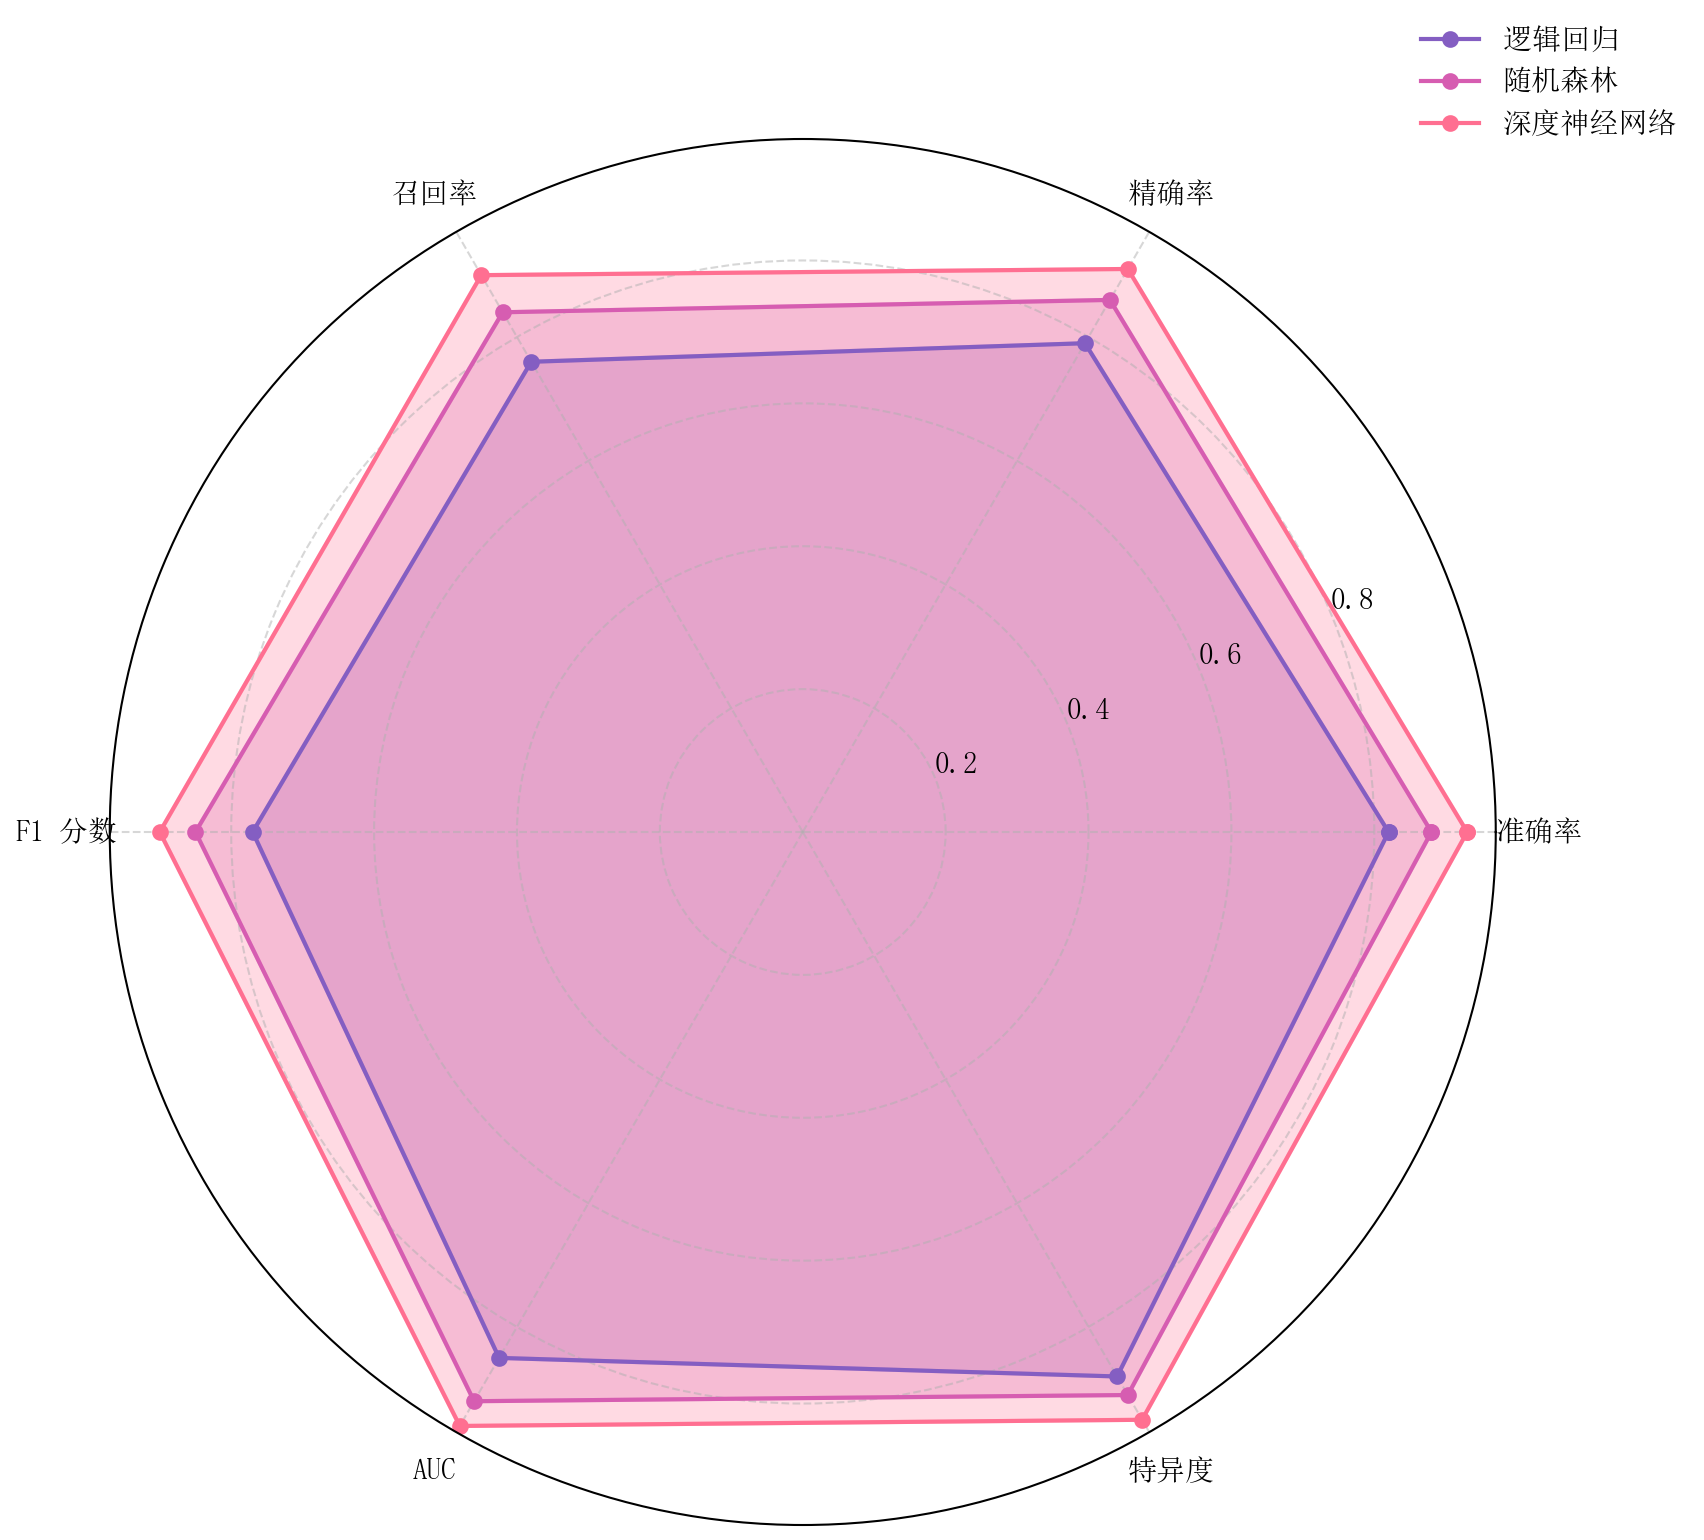
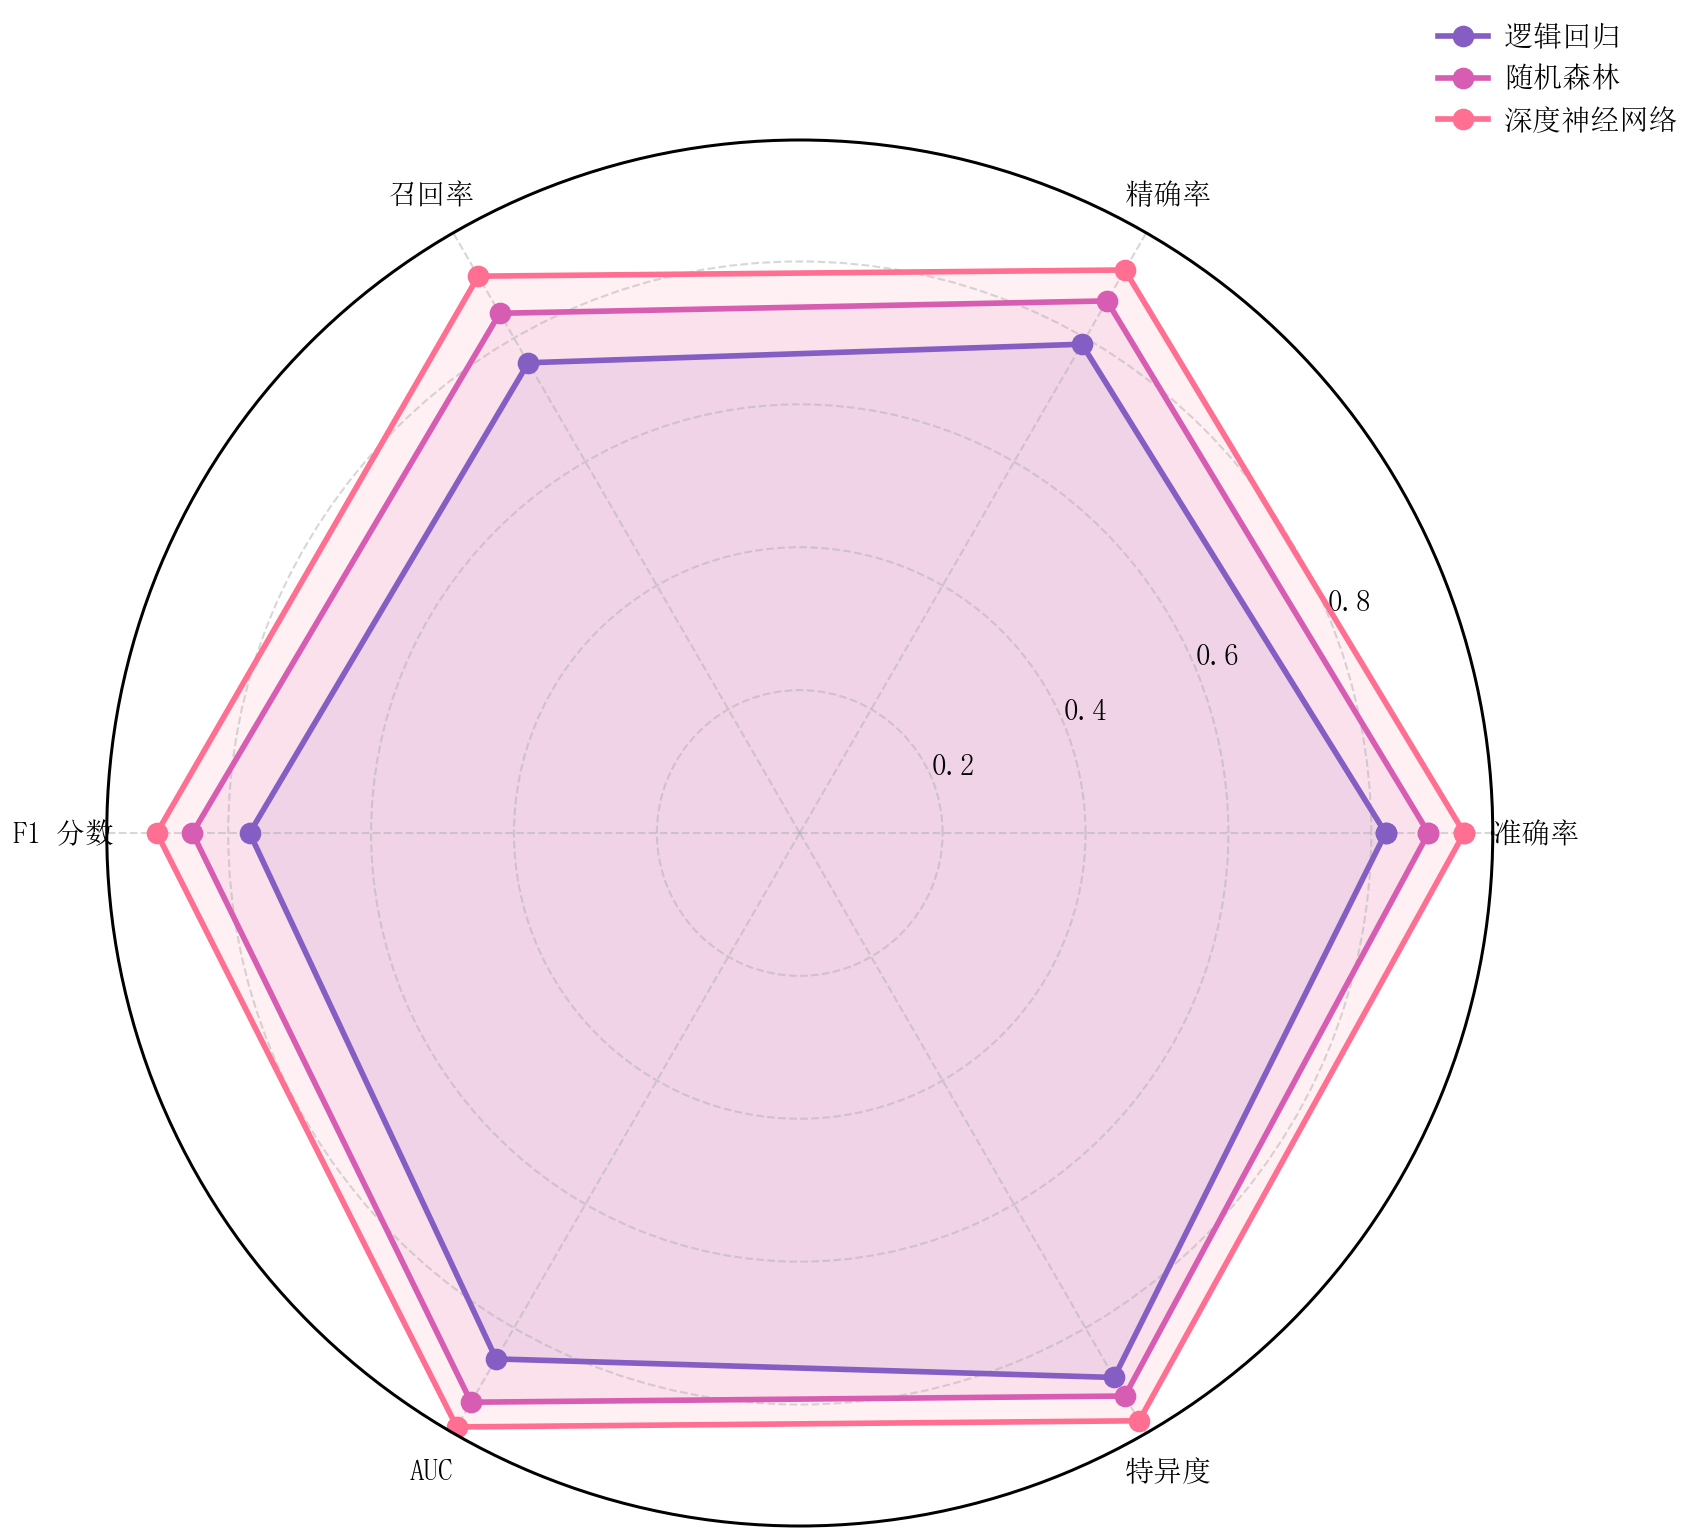
feat(style): raise publication visual baseline

diff --git a/sciplot/_plots/flow.py b/sciplot/_plots/flow.py
@@ -458,6 +458,10 @@ def plot_alluvial(
         raise ValueError("stages 至少需要两个阶段")
     if any(len(s) == 0 for s in stage_list):
         raise ValueError("每个阶段至少需要一个类别")
+    if not 0.0 <= flow_alpha <= 1.0:
+        raise ValueError(f"flow_alpha 必须在 [0, 1] 范围内，实际值: {flow_alpha!r}")
+    if not 0.0 < node_width < 0.5:
+        raise ValueError(f"node_width 必须在 (0, 0.5) 范围内，实际值: {node_width!r}")
 
     # flows 容错：允许扁平三元组列表（两阶段时的便捷写法）
     if flows and isinstance(flows[0], tuple) and len(flows[0]) == 3:
@@ -480,6 +484,9 @@ def plot_alluvial(
             if not np.isfinite(val) or val < 0:
                 raise ValueError(f"flows[{si}] 流量必须为非负有限值，实际: {val!r}")
 
+    # 先应用 venue/palette，再读取颜色循环；否则显式 palette 参数会被上一张
+    # 图遗留的 rcParams 颜色吞掉，造成“参数传了但颜色没变”的隐蔽 bug。
+    fig, ax = new_styled_figure(venue, palette, lang)
     colors = get_cycle_colors()
     if node_colors is None:
         flat_colors: List[str] = []
@@ -500,8 +507,6 @@ def plot_alluvial(
     for s in stage_list:
         stage_colors.append(flat_colors[idx:idx + len(s)])
         idx += len(s)
-
-    fig, ax = new_styled_figure(venue, palette, lang)
 
     # 每阶段：先算类别总流入/流出，确定节点条高度
     x_positions = np.linspace(0.0, 1.0, n_stages)
@@ -565,19 +570,33 @@ def plot_alluvial(
 
             # 贝塞尔曲线流带
             c = stage_colors[si][src_idx]
+            # 一个完整的闭合 ribbon：上下边界各由一段三次贝塞尔连接。
+            # CURVE4 必须以 3 个顶点为一组（控制点1、控制点2、终点）。
+            # 旧实现下边界少了终点且没有 CLOSEPOLY，虽然能渲染，但会出现
+            # 斜切/漏口等不稳定形状，尤其在多流带密集时明显。
+            x_left = x0 + node_width / 2
+            x_right = x1 - node_width / 2
+            c1 = x0 + gap * 0.38
+            c2 = x1 - gap * 0.38
             verts = [
-                (x0 + node_width / 2, yA0),
-                (x0 + node_width / 2, yA1),
-                (x0 + gap * 0.5, yA1),
-                (x0 + gap * 0.5, yB1),
-                (x1 - node_width / 2, yB1),
-                (x1 - node_width / 2, yB0),
-                (x0 + gap * 0.5, yB0),
-                (x0 + gap * 0.5, yA0),
+                (x_left, yA0),
+                (x_left, yA1),
+                (c1, yA1),
+                (c2, yB1),
+                (x_right, yB1),
+                (x_right, yB0),
+                (c2, yB0),
+                (c1, yA0),
+                (x_left, yA0),
+                (x_left, yA0),
             ]
             codes = [
-                Path.MOVETO, Path.LINETO, Path.CURVE4, Path.CURVE4,
-                Path.LINETO, Path.LINETO, Path.CURVE4, Path.CURVE4,
+                Path.MOVETO,
+                Path.LINETO,
+                Path.CURVE4, Path.CURVE4, Path.CURVE4,
+                Path.LINETO,
+                Path.CURVE4, Path.CURVE4, Path.CURVE4,
+                Path.CLOSEPOLY,
             ]
             path = Path(verts, codes)
             patch = PathPatch(path, facecolor=c, edgecolor="none",

diff --git a/sciplot/_core/style.py b/sciplot/_core/style.py
@@ -160,6 +160,36 @@ THEMES: Dict[str, Dict[str, Any]] = {
 }
 
 
+def _publication_rc(venue: str) -> Dict[str, Any]:
+    """返回稳定、克制的科研绘图基础线宽/间距参数。"""
+    presentation = venue == "presentation"
+    return {
+        "axes.linewidth": 1.0 if presentation else 0.72,
+        "axes.labelpad": 5.0 if presentation else 3.0,
+        "axes.titlepad": 7.0 if presentation else 4.5,
+        "lines.linewidth": 2.0 if presentation else 1.35,
+        "lines.markersize": 6.0 if presentation else 4.2,
+        "patch.linewidth": 0.9 if presentation else 0.65,
+        "xtick.direction": "in",
+        "ytick.direction": "in",
+        "xtick.major.size": 4.5 if presentation else 3.2,
+        "ytick.major.size": 4.5 if presentation else 3.2,
+        "xtick.major.width": 1.0 if presentation else 0.72,
+        "ytick.major.width": 1.0 if presentation else 0.72,
+        "xtick.minor.size": 2.6 if presentation else 1.8,
+        "ytick.minor.size": 2.6 if presentation else 1.8,
+        "xtick.minor.width": 0.8 if presentation else 0.55,
+        "ytick.minor.width": 0.8 if presentation else 0.55,
+        "legend.frameon": False,
+        "legend.handlelength": 1.7,
+        "legend.handletextpad": 0.55,
+        "legend.columnspacing": 0.9,
+        "legend.borderaxespad": 0.35,
+        "savefig.bbox": "tight",
+        "savefig.pad_inches": 0.04,
+    }
+
+
 def setup_style(
     venue: Optional[str] = None,
     palette: Optional[str] = None,
@@ -367,6 +397,11 @@ def setup_style(
     plt.rcParams["xtick.labelsize"] = max(6, effective_fontsize - 1)
     plt.rcParams["ytick.labelsize"] = max(6, effective_fontsize - 1)
     plt.rcParams["legend.fontsize"] = max(6, effective_fontsize - 1)
+
+    # ── 出版级基础视觉规范 ──
+    # SciencePlots 负责期刊模板；这里锁住最容易随 Matplotlib/后端漂移的
+    # 线宽、刻度、图例与保存边距，让默认输出在不同机器上保持稳定完成度。
+    plt.rcParams.update(_publication_rc(venue))
 
     # ── 其他规范 ──
     plt.rcParams["axes.grid"] = False   # 科研图默认不加网格

diff --git a/tests/unit/test_flow_rank.py b/tests/unit/test_flow_rank.py
@@ -162,7 +162,7 @@ def test_alluvial_imbalanced_node_no_overflow(cleanup_figures):
     flows = [[(0, 0, 30), (0, 1, 20), (1, 0, 50)]]
     fig, ax = sp.plot_alluvial(stages, flows)
 
-    # 找所有 PathPatch（流带=8顶点，节点条=5顶点）与节点矩形
+    # 找所有 PathPatch（闭合流带=10顶点，节点条=5顶点）与节点矩形
     bands = [p for p in ax.patches
              if isinstance(p, PathPatch) and len(p.get_path().vertices) >= 8]
     node_patches = [p for p in ax.patches
@@ -188,6 +188,34 @@ def test_alluvial_imbalanced_node_no_overflow(cleanup_figures):
         # 目标侧流带应落在节点条并集区间内（允许 1e-6 容差）
         assert band_top <= node_max + 1e-6, "流带顶部溢出节点条"
         assert band_bottom >= node_min - 1e-6, "流带底部溢出节点条"
+
+
+def test_alluvial_ribbons_are_closed_bezier_paths(cleanup_figures):
+    """流带必须是完整闭合的三次贝塞尔 Path，避免斜切/漏口。"""
+    from matplotlib.path import Path
+    from matplotlib.patches import PathPatch
+
+    fig, ax = sp.plot_alluvial(
+        [["A", "B"], ["X", "Y"]],
+        [[(0, 0, 30), (0, 1, 10), (1, 0, 20), (1, 1, 40)]],
+    )
+    bands = [
+        patch for patch in ax.patches
+        if isinstance(patch, PathPatch) and len(patch.get_path().vertices) >= 10
+    ]
+    assert len(bands) == 4
+    for band in bands:
+        path = band.get_path()
+        assert path.codes is not None
+        assert path.codes[-1] == Path.CLOSEPOLY
+        assert np.allclose(path.vertices[0], path.vertices[-1])
+
+
+def test_alluvial_validates_visual_geometry(cleanup_figures):
+    with pytest.raises(ValueError, match="flow_alpha"):
+        sp.plot_alluvial([["A"], ["B"]], [(0, 0, 1)], flow_alpha=1.2)
+    with pytest.raises(ValueError, match="node_width"):
+        sp.plot_alluvial([["A"], ["B"]], [(0, 0, 1)], node_width=0.0)
 
 
 # ── 别名与导出 ────────────────────────────────────────────────

diff --git a/tests/unit/test_style.py b/tests/unit/test_style.py
@@ -56,6 +56,24 @@ class TestSetupStyle:
             plt.close(fig)
             sp.reset_style()
 
+    def test_publication_baseline_rcparams(self, reset_style):
+        """普通投稿 venue 应锁定稳定的线宽、刻度和无框图例下限。"""
+        sp.setup_style("nature", lang="en")
+        assert rcParams["axes.linewidth"] == pytest.approx(0.72)
+        assert rcParams["lines.linewidth"] == pytest.approx(1.35)
+        assert rcParams["xtick.direction"] == "in"
+        assert rcParams["ytick.direction"] == "in"
+        assert rcParams["legend.frameon"] is False
+        assert rcParams["savefig.bbox"] == "tight"
+        assert rcParams["savefig.pad_inches"] == pytest.approx(0.04)
+
+    def test_presentation_baseline_is_visually_stronger(self, reset_style):
+        """演示场景使用更强的线条/标记，不直接复用论文细线参数。"""
+        sp.setup_style("presentation", lang="en")
+        assert rcParams["axes.linewidth"] == pytest.approx(1.0)
+        assert rcParams["lines.linewidth"] == pytest.approx(2.0)
+        assert rcParams["lines.markersize"] == pytest.approx(6.0)
+
 
 class TestLanguageAndLaTeX:
     """测试语言设置和 LaTeX 渲染配置"""

diff --git a/showcase/11_network.py b/showcase/11_network.py
@@ -16,9 +16,9 @@ np.random.seed(42)
 # ── 数据生成 ──────────────────────────────────────────────────
 # 构建含 3 个社区的网络
 # 社区内连接概率高，社区间连接概率低 → 自然形成社区结构
-community_sizes = [10, 9, 8]  # 三个社区的节点数
-p_intra = 0.7   # 社区内连接概率
-p_inter = 0.08  # 社区间连接概率
+community_sizes = [7, 7, 7]  # 控制信息密度：足以看出社区，但不让标签/边淹没结构
+p_intra = 0.58  # 社区内连接概率
+p_inter = 0.035  # 少量跨社区连接，保留整体网络感
 
 n_total = sum(community_sizes)
 G = nx.Graph()
@@ -70,7 +70,7 @@ fig, ax = sp.plot_network_communities(
     communities_relabeled,
     layout="spring",
     venue="nature",
-    palette="pastel",
+    palette="pastel-3",
 )
 
 # ── 保存 ──────────────────────────────────────────────────────

diff --git a/tests/unit/test_circular_barplot.py b/tests/unit/test_circular_barplot.py
@@ -6,6 +6,7 @@ from __future__ import annotations
 
 import numpy as np
 import pytest
+from matplotlib.colors import to_hex
 
 import sciplot as sp
 
@@ -37,6 +38,17 @@ def test_circular_barplot_no_sort(cleanup_figures):
     result = sp.plot_circular_barplot(["A", "B"], [3.0, 9.0], sort=False)
     bars = result.ax.patches[:2]
     assert bars[0].get_height() < bars[1].get_height()
+
+
+def test_circular_barplot_palette_argument_is_applied_before_color_cycle(cleanup_figures):
+    """显式 palette 必须决定当前图颜色，不能沿用上一张图的 rcParams。"""
+    sp.setup_style("nature", "pastel")
+    result = sp.plot_circular_barplot(
+        ["A", "B", "C"], [3.0, 2.0, 1.0], palette="ocean", sort=False,
+    )
+    expected = sp.get_palette("ocean")[0]
+    actual = to_hex(result.ax.patches[0].get_facecolor(), keep_alpha=False)
+    assert actual.lower() == expected.lower()
 
 
 def test_circular_barplot_length_mismatch_raises(cleanup_figures):

diff --git a/sciplot/_plots/polar.py b/sciplot/_plots/polar.py
@@ -378,6 +378,10 @@ def plot_circular_barplot(
     cat_ordered = [cat_arr[i] for i in order]
     val_ordered = val_arr[order]
 
+    # palette 必须先应用，再读取颜色循环。旧实现先 get_cycle_colors()，
+    # 导致 plot_circular_barplot(..., palette="ocean") 可能沿用上一张图配色。
+    effective_venue = apply_resolved_style(venue, palette, lang)
+
     if colors is not None:
         if len(colors) != len(cat_arr):
             raise ValueError(
@@ -388,7 +392,6 @@ def plot_circular_barplot(
         cycle = get_cycle_colors()
         color_ordered = [cycle_color(cycle, i) for i in range(len(cat_arr))]
 
-    effective_venue = apply_resolved_style(venue, palette, lang)
     from sciplot._core.style import VENUES
     w, h = VENUES.get(effective_venue or "nature", VENUES["nature"]).figsize
     size = max(w, h)

diff --git a/showcase/40_circular_barplot.py b/showcase/40_circular_barplot.py
@@ -15,7 +15,7 @@ rainfall = np.array([116.0, 182.0, 193.0, 87.0, 145.0, 126.0,
                      57.0, 58.0, 32.0, 29.0, 45.0, 52.0])
 
 # ── 绘图 ──────────────────────────────────────────────────────
-sp.setup_style("presentation", "pastel", lang="zh")
+sp.setup_style("presentation", "ocean", lang="zh")
 
 fig, ax = sp.plot_circular_barplot(
     cities,
@@ -23,6 +23,7 @@ fig, ax = sp.plot_circular_barplot(
     sort=True,
     show_values=True,
     fmt=".0f",
+    palette="ocean",
 )
 
 # ── 保存 ──────────────────────────────────────────────────────

diff --git a/showcase/07_radar.py b/showcase/07_radar.py
@@ -33,7 +33,9 @@ fig, ax = sp.plot_radar(
     values_list,
     labels=labels,
     fill=True,
-    alpha=0.25,
+    # 多组雷达优先保留轮廓，填充仅做轻量分组提示，避免中心区域糊成色块。
+    alpha=0.10,
+    palette="pastel-3",
 )
 
 # ── 保存 ──────────────────────────────────────────────────────

diff --git a/showcase/44_bump_alluvial.py b/showcase/44_bump_alluvial.py
@@ -34,5 +34,7 @@ fig2, ax2 = sp.plot_alluvial(
         [(0, 0, 78), (1, 1, 12), (2, 1, 15), (2, 0, 58)],
     ],
     title="",
+    palette="earth",
+    flow_alpha=0.38,
 )
 sp.save(fig2, "showcase/45_alluvial", formats=("png",), dpi=300)
